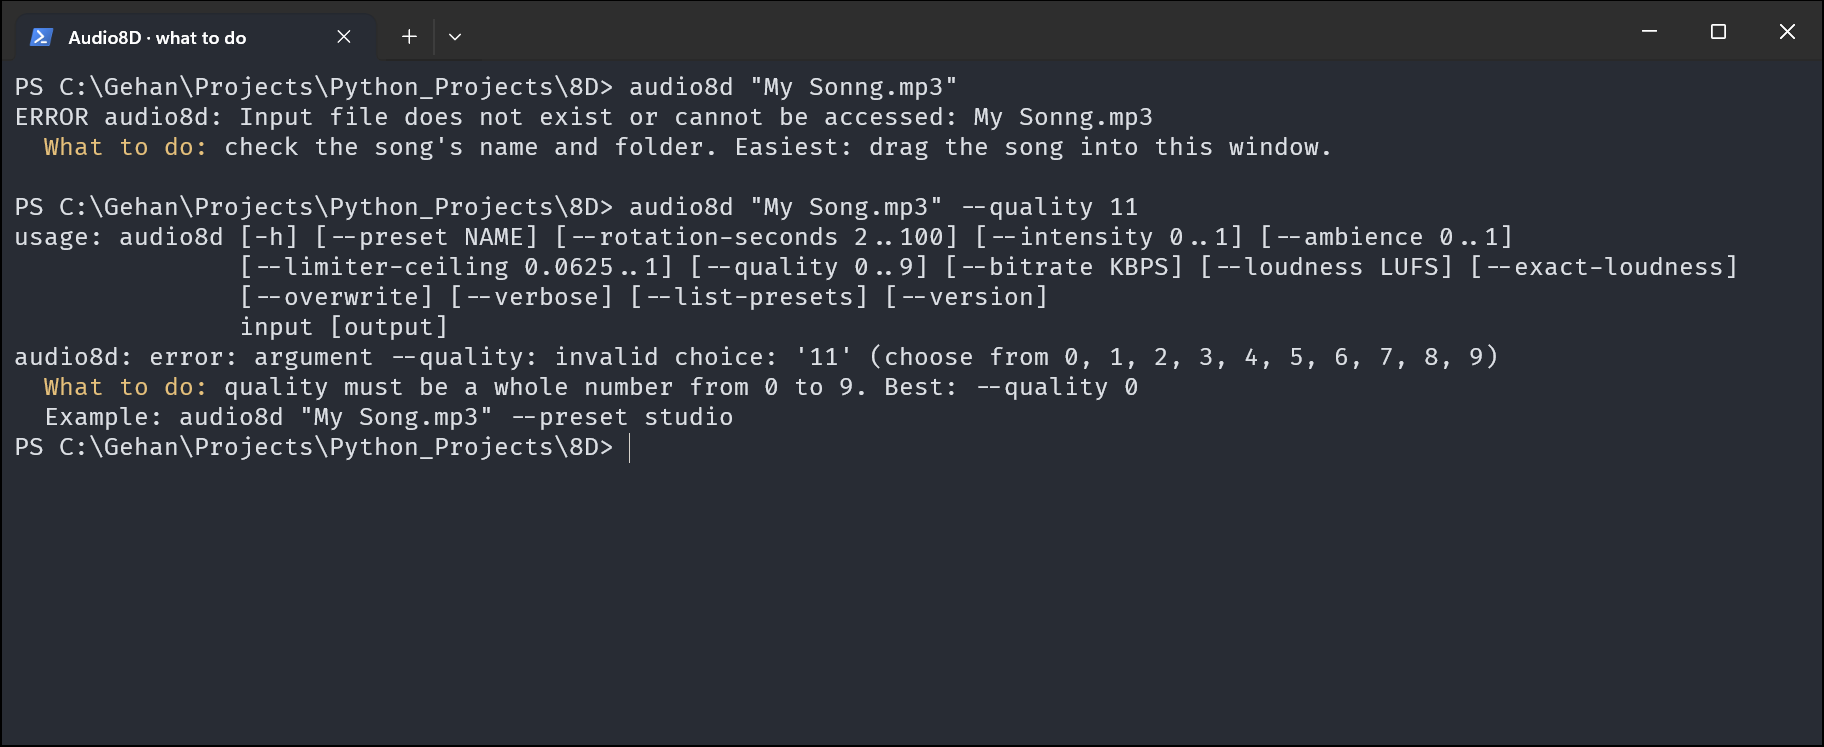
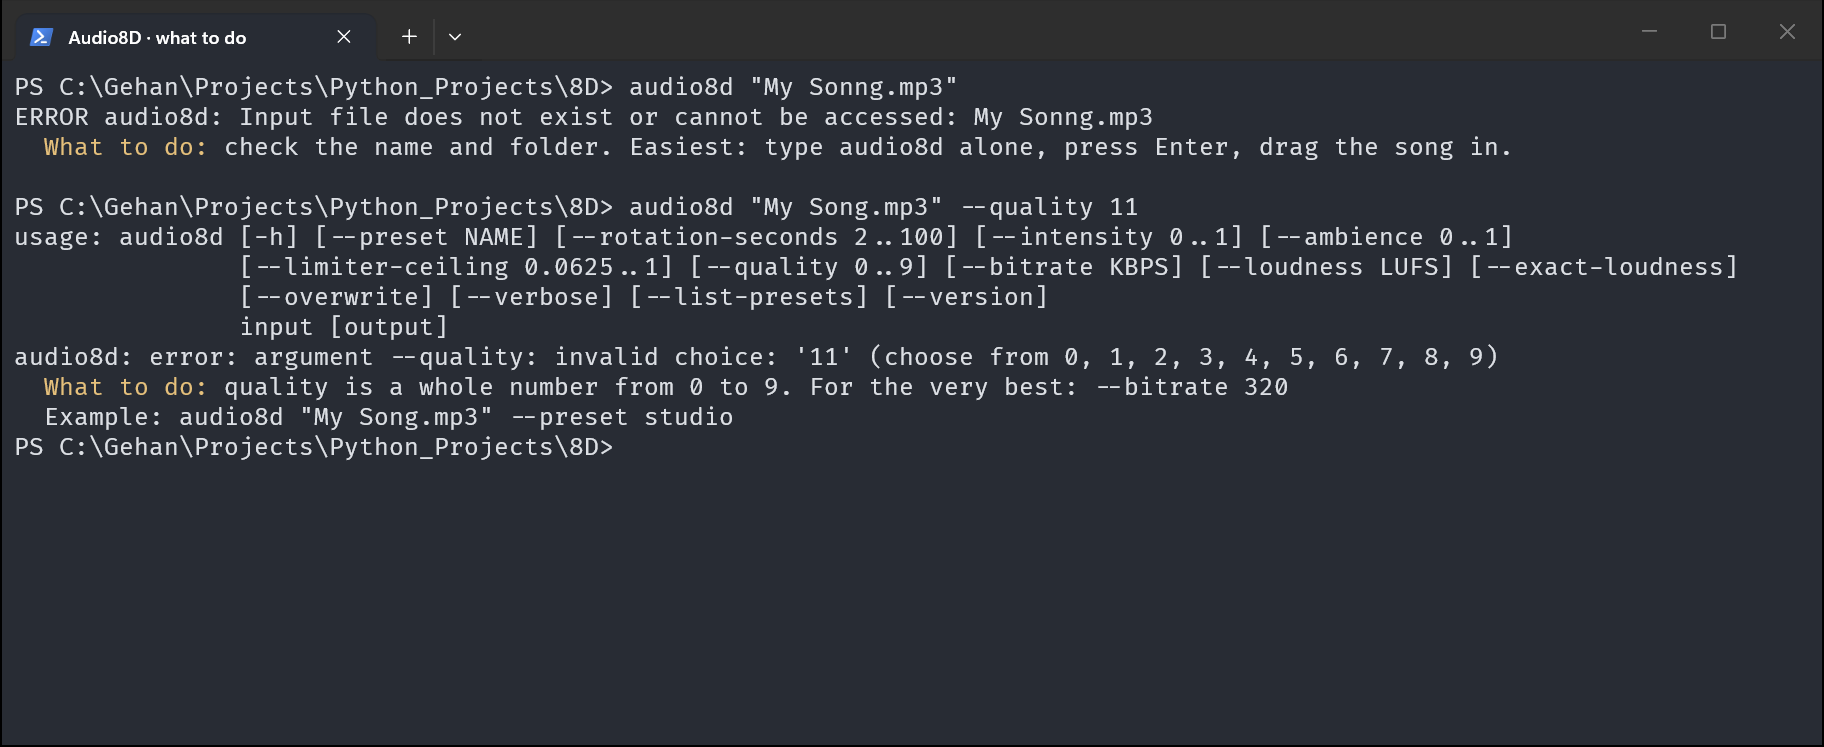
Add step-by-step Start here guide, tested special-character song name rules and clearer hints

Changed region(s): [[0.1875, 0.1847, 0.8125, 0.2155], [0.1875, 0.4926, 0.4688, 0.5542], [0.5, 0.4926, 0.7188, 0.5234]]

diff --git a/8D/src/hints.py b/8D/src/hints.py
@@ -18,7 +18,7 @@ _FIXES = (
     ),
     (
         "Input file does not exist",
-        "check the song's name and folder. Easiest: drag the song into this window.",
+        "check the name and folder. Easiest: type audio8d alone, press Enter, drag the song in.",
     ),
     ("Input path is not a regular file", "that is a folder. Give a song file inside it instead."),
     ("Input file is empty", "the file is empty (0 bytes). Copy or download the song again."),
@@ -111,7 +111,8 @@ def usage_fix_for(message: str) -> str:
     if "required: input" in message:
         return "you forgot the song. Type its name after audio8d, or run audio8d alone for help."
     if "--quality" in message:
-        return f"quality must be a whole number from 0 to 9. Best: --quality {_BEST.mp3_quality}"
+        best = _BEST.mp3_bitrate
+        return f"quality is a whole number from 0 to 9. For the very best: --bitrate {best}"
     if "--bitrate" in message:
         return "bitrate must be 128, 160, 192, 224, 256 or 320. Best: --bitrate 320"
     if "--preset" in message:

diff --git a/8D/README.md b/8D/README.md
@@ -39,6 +39,8 @@
 
 ## 📚 What is inside this guide
 
+> 🚀 **New here and just want your song in 8D?** Go straight to **[Start here: turn YOUR song into 8D, step by step](#-start-here-turn-your-song-into-8d-step-by-step)**.
+
 | 👶 Start here | 🎵 Make music | 🧰 Help & extras |
 |---|---|---|
 | 1. [What does this do?](#-1-what-does-this-do) | 8. [Make your first 8D song](#-8-make-your-first-8d-song) | 15. [When something goes wrong](#-15-when-something-goes-wrong) |
@@ -48,6 +50,219 @@
 | 5. [Set up: step by step](#-5-set-up-step-by-step) | 12. [Which songs can I use?](#-12-which-songs-can-i-use) | 19. [Questions people ask](#-19-questions-people-ask) |
 | 6. [Choose how to run it](#-6-choose-how-to-run-it) | 13. [Many songs at once](#-13-many-songs-at-once) | 20. [Word helper](#-20-word-helper) |
 | 7. [Check that it works](#-7-check-that-it-works) | 14. [Why is my new song quieter?](#-14-why-is-my-new-song-quieter) | 21. [Remove Audio8D](#-21-remove-audio8d) · 22. [Credits](#-22-credits) |
+
+---
+
+## 🚀 Start here: turn YOUR song into 8D, step by step
+
+Got a music file? 🎵 Follow these steps **from top to bottom**. Every step tells you **what you should see** when it worked ✅, and what to do if it didn't. You can't break anything, and your original song is **never changed**.
+
+```mermaid
+flowchart LR
+    A(["🎵 Your song"]):::a --> B["🧰 One-time<br/>setup check"]:::b
+    B --> C["▶ Start<br/>Audio8D"]:::c
+    C --> D["🖱 Drag the song in"]:::d
+    D --> E["⏎ Enter = BEST style"]:::e
+    E --> F(["🎧 Your 8D song!"]):::f
+
+    classDef a fill:#1e1e3f,stroke:#00d4ff,color:#fff
+    classDef b fill:#00b4d8,stroke:#0090b0,color:#fff
+    classDef c fill:#4f8bff,stroke:#2a5fd0,color:#fff
+    classDef d fill:#7b2ff7,stroke:#5a1fc0,color:#fff
+    classDef e fill:#ff4fd8,stroke:#c0209f,color:#fff
+    classDef f fill:#2ea44f,stroke:#1f7a38,color:#fff
+```
+
+### 🧰 Before your very first song (only once, ever)
+
+Tick these off one by one. You only do this **the first time**.
+
+| ✔ | What | How to check | ✅ Good if… | ❌ If not… |
+|:---:|---|---|---|---|
+| ☐ | **Python 3.10 or newer** | Open PowerShell, type `python --version` | You see `Python 3.10` or higher | Install it: [Step 1](#step-1--get-python-) |
+| ☐ | **FFmpeg helper files** | Open the folder `8D\src` | You see `ffmpeg.exe` **and** `ffprobe.exe` | Get them: [Step 2](#step-2--check-the-helper-programs-) |
+| ☐ | **How you'll start Audio8D** | Pick **one** way from the table below | – | Details: [part 6](#-6-choose-how-to-run-it) |
+| ☐ | **Headphones** | Put them on the right way round (L on the left ear) | – | Any normal pair or earbuds will do |
+
+**Which way should I pick?** If you're not sure, pick **🅳 Way D (double-click)**. It needs no setup at all.
+
+| Way | One-time setup | How you'll start it every time |
+|---|---|---|
+| 🅳 **Double-click** (easiest) | Nothing | Double-click `8D\src\__main__.py` |
+| 🅰 **Installed** | In the `8D` folder, run `python -m pip install -e .` once | Type `audio8d` in any terminal |
+| 🅱 **Virtual environment** | In `8D`: `python -m venv .venv`, open it, then `python -m pip install -e .` | Open the box (`.\.venv\Scripts\Activate.ps1`), then type `audio8d` |
+| 🅲 **No install** | Nothing | In a terminal inside `8D\src`, type `python __main__.py` |
+
+### 🎵 Your song, in 7 easy steps
+
+#### Step 1 · Find your song 🔎
+
+Any normal music file works: **MP3, FLAC, WAV, M4A/AAC, OGG, Opus, WMA**, even the sound of a **video** (MP4, MKV, WEBM). See [part 12](#-12-which-songs-can-i-use) for the full list.
+
+- 🥇 **Have more than one copy?** Use the best one: **FLAC or WAV** beats a **320 kbps MP3**, which beats a smaller MP3. Audio8D can't add back detail that a small file already lost. ([Why?](#-best-of-best-for-every-kind-of-file))
+- 🔒 **Copy-protected songs can't be converted.** That means songs you *stream* or download inside Spotify, Apple Music (`.m4p`), YouTube Music, etc. Songs from CDs, music stores like Bandcamp or Amazon MP3, and your own recordings are fine.
+- 🎧 **Never feed it an 8D song** (a file ending in `(8D).mp3`). Always start from the **original**.
+
+✅ **You're ready when:** you know where the song is, e.g. in your `Music` folder.
+
+#### Step 2 · Start Audio8D ▶
+
+Do the one that matches **your way**:
+
+| Your way | Do this |
+|---|---|
+| 🅳 Double-click | Open `C:\Gehan\Projects\Python_Projects\8D\src` in File Explorer and **double-click `__main__.py`**. *(If Windows asks which app to use, pick **Python**.)* |
+| 🅰 Installed | Open **PowerShell** (press <kbd>⊞ Windows</kbd>, type `powershell`, <kbd>Enter</kbd>), type **`audio8d`**, press <kbd>Enter</kbd> |
+| 🅱 Virtual environment | Open PowerShell **in the `8D` folder**, type `.\.venv\Scripts\Activate.ps1`, then **`audio8d`**, <kbd>Enter</kbd> |
+| 🅲 No install | Open PowerShell **in the `8D\src` folder**, type **`python __main__.py`**, <kbd>Enter</kbd> |
+
+✅ **It worked if** you see the purple title box **"Audio8D 1.0.0 · developed by Gehan Fernando"** and the words **"Welcome! Let's make your song fly around your head."**
+
+❌ **Didn't work?** `python`/`audio8d` "is not recognized", or the window closed at once? See [Stuck?](#-stuck-quick-fixes) below.
+
+#### Step 3 · Give it your song (question 1 of 2) 🎵
+
+It asks **"Step 1 of 2 - Which song?"**
+
+1. Open **another** File Explorer window and find your song.
+2. **Drag the song** with the mouse and **drop it into the black window**. Its full path appears after `Song:`.
+3. Press <kbd>Enter</kbd>.
+
+💡 **Any name works here**, even names with spaces, `'`, `$`, `&` or brackets, because you're answering a question, not typing a command.
+💡 **Typed it wrong?** It says *"I can't find that file"* and simply asks again. Press <kbd>Enter</kbd> on an empty line to stop.
+
+✅ **It worked if** it moves on to **"Step 2 of 2 - Which style?"**
+
+#### Step 4 · Pick the style (question 2 of 2) 🎨
+
+You'll see a numbered list. The best one says **BEST**.
+
+- 🏆 **Just press <kbd>Enter</kbd>.** That picks **`studio`**, the best of best (320 kbps, loudness like Spotify, dynamics untouched).
+- Or type a number from **1 to 8** and press <kbd>Enter</kbd>, e.g. `2` for `streaming` (always exactly −14 LUFS) or `4` for `smooth`. All styles: [part 11](#-all-ready-made-styles).
+
+✅ **It worked if** a list of settings appears, each marked **(best)**, and it says **"Working…"**
+
+#### Step 5 · Wait a few seconds ⏳
+
+Audio8D first **measures** your song, then **makes** the 8D version. On a normal PC this takes about **20 seconds for a 5-minute song** with `studio`. While it works, it shows:
+
+| You'll see | It means |
+|---|---|
+| **Source** | What your file is, e.g. *"MP3, 320 kbps, 48 kHz, stereo (already compressed)"* |
+| **(best)** next to each setting | Every value is already the best one |
+| **Good to know** 💙 | Honest facts about your file, e.g. *"a FLAC or WAV copy would sound best"* |
+| **Conversion completed** 💚 | ✅ **Done!** With the time taken and the file size |
+| **Loudness:** 💚 | How loud it was, how much it was turned up or down, and where it ended up |
+
+Then it says **"Press Enter to close…"**, so press <kbd>Enter</kbd>.
+
+❌ **See a line starting with `ERROR`?** Read the yellow **`What to do:`** line right under it, which tells you the fix. All messages: [part 15](#-15-when-something-goes-wrong).
+
+#### Step 6 · Find your new 8D song 📁
+
+It's saved **right next to your original song**, with **`(8D)`** added to the name:
+
+```text
+C:\Users\Gehan\Music\My Song.mp3        ← your original (never changed)
+C:\Users\Gehan\Music\My Song (8D).mp3   ← your new 8D song ✨
+```
+
+Works for every file type: `Track 01.flac` becomes `Track 01 (8D).mp3`. The new song is **always an MP3**, so it plays on everything.
+
+#### Step 7 · Listen! 🎧
+
+1. Put on your **headphones**.
+2. **Double-click** the new `(8D).mp3` file to play it in your music app.
+3. **Close your eyes.** Within about **8 seconds** the music should float **left ➡ right ➡ left** around your head. 🌀
+
+✅ **Perfect if:** smooth movement, clear voice, no crackles. Want to check it properly? See [part 9](#-9-check-your-new-song).
+
+🎉 **That's it, you made your first 8D song!**
+
+### ⌨ Prefer one command instead of questions?
+
+Once you know the steps, this does **Steps 2 to 5 in one line**:
+
+```powershell
+audio8d "C:\Users\Gehan\Music\My Song.mp3" --preset studio
+```
+
+*(Way C: open PowerShell in `8D\src` and type `python __main__.py` instead of `audio8d`.)*
+
+| Want to… | Add this |
+|---|---|
+| Choose the new file's name or folder | A second name: `audio8d "My Song.mp3" "D:\8D Songs\My Song.mp3" --preset studio` (the folder is created for you) |
+| Replace an 8D file you made before | `--overwrite` |
+| Exactly −14 LUFS, like every other song in a playlist | `--preset streaming` instead of `--preset studio` |
+| See every style first | `audio8d --list-presets` |
+
+💡 **Easy path trick:** in File Explorer, **hold <kbd>Shift</kbd> and right-click the song → "Copy as path"**, then paste it with a right-click. The quotes are added for you. **Warning:** if the name has a `$` or `` ` `` in it, change the double quotes to single quotes (see below).
+
+#### 🔤 Song names with special characters (all tested)
+
+Some characters mean something special to PowerShell, so **how you put quotes around the name matters**:
+
+| The song's name has… | Write it like this | ✅ Example that works |
+|---|---|---|
+| Spaces | Double quotes `" "` | `audio8d "My Song.mp3"` |
+| An apostrophe `'` | Double quotes `" "` | `audio8d "Rock 'n' Roll.mp3"` |
+| `&` `[ ]` `( )` | Double quotes `" "` | `audio8d "Tom & Jerry [Live] (2024).mp3"` |
+| A dollar sign `$` or a backtick `` ` `` | **Single** quotes `' '` | `audio8d 'Cash $ong.mp3'` |
+| Both `'` **and** `$` | Single quotes, and type the apostrophe **twice** | `audio8d 'Rock ''n'' $ong.mp3'` |
+| Anything strange at all | **Skip the command**: type just `audio8d` and **drag the song in** | Works with every name ✅ |
+
+❌ **Forgot the quotes?** You'll see *"unrecognized arguments"* and a **What to do** line telling you to add them.
+❌ **Used double quotes around a `$` name?** PowerShell removes part of the name, so you'll see *"Input file does not exist"*. Use single quotes, or drag the song in.
+
+*(macOS and Linux terminals follow the same rules.)*
+
+### 🔁 After your first song
+
+**Not quite right?** Make it again from the **original** with one change (add `--overwrite` to replace the old 8D file):
+
+| It sounds… | Try this |
+|---|---|
+| 😵 Too strong or dizzy | `audio8d "My Song.mp3" --preset smooth --overwrite` |
+| 🐌 Spinning too fast for a slow song | `audio8d "My Song.mp3" --preset studio --rotation-seconds 12 --overwrite` |
+| 😐 Hardly moving | `audio8d "My Song.mp3" --preset studio --intensity 0.95 --overwrite` *(and check you're on headphones)* |
+| 🌫 Too echoey | `audio8d "My Song.mp3" --preset studio --ambience 0.15 --overwrite` |
+| 🔉 Quieter than my other songs | `audio8d "My Song.mp3" --preset streaming --overwrite` |
+| 🥁 Not in time with the beat | Match the spin to the song's tempo: [tempo table](#-bonus-make-the-spin-dance-with-the-beat) |
+
+**Good to remember:**
+
+- 🎵 **Your original song is never changed.** Keep it, since an 8D song can't be turned back.
+- 🚫 **Never convert an `(8D)` file again.** Always start from the original.
+- 📚 **Got lots of songs?** Do a whole folder at once: [part 13](#-13-many-songs-at-once).
+- 📱 **On your phone:** copy the `(8D).mp3` file over; every music app can play it.
+- 🙈 **Git:** songs inside the `8D` folder are ignored (`*.mp3` in `.gitignore`), so they are never uploaded by accident.
+- ⚖ **Sharing:** making an 8D version doesn't make a song yours. Ask the owner before uploading it anywhere.
+
+### 🆘 Stuck? Quick fixes
+
+| What happened | Quick fix | More help |
+|---|---|---|
+| `python` is not recognized | Try `py` instead; if that fails, install Python and tick **"Add python.exe to PATH"** | [Step 1](#step-1--get-python-) |
+| `audio8d` is not recognized | Use Way C (`python __main__.py` in `8D\src`), or install again in the `8D` folder | [part 15](#-15-when-something-goes-wrong) |
+| The double-clicked window closes at once | Open PowerShell in `8D\src` and run `python __main__.py` to read the message | [part 15](#-15-when-something-goes-wrong) |
+| "Missing required executable(s): ffmpeg" | Put `ffmpeg.exe` and `ffprobe.exe` in `8D\src` | [Step 2](#step-2--check-the-helper-programs-) |
+| "Input file does not exist" | Check the name, or type `audio8d` alone and **drag the song in** | [Song names](#-song-names-with-special-characters-all-tested) |
+| "Command failed … Invalid data found" | That file isn't music, or it's copy-protected | [Step 1](#step-1--find-your-song-) |
+| "Output already exists" | Add `--overwrite`, or give the new file another name | [part 8](#the-new-file-already-exists) |
+| I can't hear any 8D movement | Use **headphones** and turn **off** "Mono audio" (Windows *Settings → Accessibility → Audio*) | [part 15](#-15-when-something-goes-wrong) |
+
+### ✅ My checklist (print me!)
+
+- [ ] Python works (`python --version`)
+- [ ] `ffmpeg.exe` and `ffprobe.exe` are in `8D\src`
+- [ ] I picked my way to start (A, B, C or D)
+- [ ] I found the **best copy** of my song (not an `(8D)` file, not copy-protected)
+- [ ] I started Audio8D and saw the **Welcome!** message
+- [ ] I dragged my song in and pressed <kbd>Enter</kbd>
+- [ ] I pressed <kbd>Enter</kbd> again for the **BEST** style (`studio`)
+- [ ] I saw **"Conversion completed"**
+- [ ] I found `My Song (8D).mp3` next to my original
+- [ ] I listened with **headphones** 🎧, and it flies around my head! 🌀
 
 ---
 
@@ -572,11 +787,12 @@ Your new song **`<song name> (8D).mp3`** is saved **next to the original**. That
 2. 📂 **Open the terminal** in the `8D` folder ([Step 3](#step-3--open-the-terminal-in-the-8d-folder-)). With Way B, open the box too.
 3. ⌨ **Type this** and press <kbd>Enter</kbd>:
    ```powershell
-   audio8d song.mp3 song_8d.mp3
+   audio8d song.mp3 --preset studio
    ```
-   - The **first** name is your song (what goes **in**) 🎵
-   - The **second** name is the new 8D song (what comes **out**) 🎧 It must end with **`.mp3`**
-4. ⏳ **Wait a few seconds.** Audio8D shows you **every setting in plain words**, then says when it's done. This is a **real screenshot**:
+   - `song.mp3` is your song (what goes **in**) 🎵
+   - `--preset studio` picks the **best of best** style 🏆
+   - The new 8D song is saved as **`song (8D).mp3`** next to it. Want another name? Put it second, e.g. `audio8d song.mp3 song_8d.mp3 --preset studio` (it must end with **`.mp3`**)
+4. ⏳ **Wait a few seconds.** Audio8D shows you **every setting in plain words**, then says when it's done. This **real screenshot** shows what happens if you **leave out** `--preset studio`: you get the `classic` sound, and the app points you to the best values:
 
 <p align="center">
   <img src="docs/images/terminal-first-run.png" alt="Real screenshot: Audio8D converting My Song.mp3 with the classic settings, then suggesting --preset studio" width="100%"/>
@@ -601,7 +817,7 @@ What each line means:
 | **Loudness:** 💚 | With a loudness goal: what was measured, how much it was turned up or down, and where it landed |
 | **Tip** 💛 | A friendly hint. Here: add `--preset studio` for the best quality |
 
-🎉 **"Conversion completed"** means it worked! Your new song **`song_8d.mp3`** is now in the `8D` folder. Put on your headphones, close your eyes, and press play. 🎧🌀
+🎉 **"Conversion completed"** means it worked! Your new song **`song (8D).mp3`** is now in the `8D` folder. Put on your headphones, close your eyes, and press play. 🎧🌀
 
 ### Even shorter: give only the song 🎯
 
